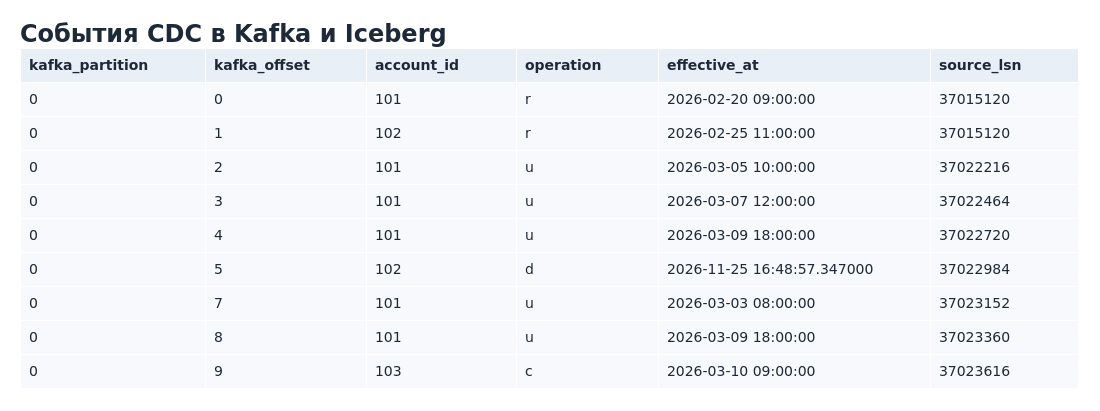
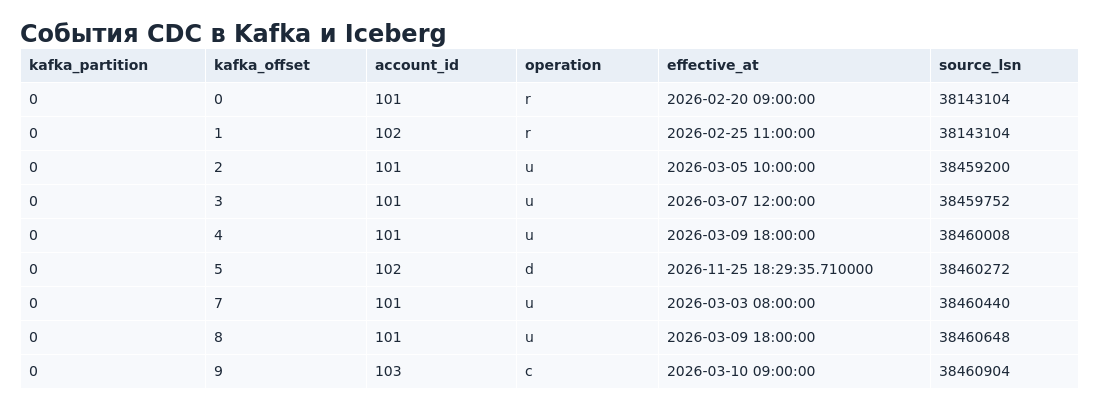
Document verified Windows Docker Compose run

diff --git a/отчет.md b/отчет.md
@@ -29,30 +29,20 @@
 
 ## 4. Docker — что поднялось (честно)
 
-| Блок | Статус |
+Стенд запущен через Docker Desktop на Windows 25 ноября 2026 года. При первом скачивании образов загрузка обрывалась с `unexpected EOF`. После повторной загрузки образы скачались, контейнеры запустились, а демонстрация вернула все семь результатов SQL.
+
+| Блок | Статус в Windows |
 |---|---|
-| Docker Compose | Конфигурация прошла `docker compose config -q`. Запуск контейнеров заблокирован на обращении к сокету Docker Engine. |
-| PostgreSQL 17.12, Kafka 3.9.1 | Запущены отдельными процессами на Linux в проверочном прогоне. |
-| Kafka Connect / Debezium 3.2.1.Final | Задача коннектора перешла в RUNNING и сформировала события снимка и WAL в Kafka. |
-| Lakekeeper 0.15.0, Trino 476 | Запущены отдельными процессами. Lakekeeper создал warehouse, Trino создал две таблицы Iceberg. |
-| Silo | Включён в Compose. Запуск бинарника Silo в проверочной среде завершился ошибкой доступа к netlink при определении адресов хоста. Для интеграционной проверки использован реальный S3-совместимый RustFS 1.0.6. |
-| Python-потребитель | Запущен отдельным процессом. Сохранил CDC и материализовал SCD Type 2. В Compose описан сервисом `worker`. |
-| DBeaver | Клиент для ручной проверки запросов на Windows. Автоматическая проверка отправила тот же SQL в Trino через Python-клиент. |
+| PostgreSQL, Kafka, Silo, Lakekeeper, Trino | Работали. В `docker ps` указан статус `Up (healthy)`. |
+| Kafka Connect / Debezium, Python-потребитель | Работали. События снимка и WAL дошли до Trino и материализовались в Iceberg. |
+| `migrate`, `setup` | Обе разовые задачи завершились с `Exited (0)` по выводу `docker compose ps -a`. |
+| `demo` | Вернул результаты `Q1`–`Q7`, включая две проверки целостности с нулём строк. |
 
-Фактический вывод проверки Docker, сокращён до значимых строк. Полный вывод сохранён в [docker.txt](screenshots/docker.txt).
+![Контейнеры проекта в Docker Desktop](screenshots/01-docker.png)
 
-![Таблица результатов проверки Docker Compose и docker ps](screenshots/01-docker.png)
+Полные результаты сохранены в [docker ps](screenshots/windows-docker-ps.txt), [docker compose ps -a](screenshots/windows-compose-ps.txt) и [выводе демонстрации](screenshots/windows-demo.txt). Текстовые файлы приведены к UTF-8. В выводе Windows PowerShell 5.1 пометка `NativeCommandError` относится к сообщениям Compose о запуске зависимостей. После этих сообщений в том же файле идут результаты всех семи запросов.
 
-```text
-$ docker compose config -q
-OK (exit 0)
-
-$ docker compose up -d --build
-... dial unix /var/run/docker.sock: socket: operation not permitted
-
-$ docker ps
-... dial unix /var/run/docker.sock: socket: operation not permitted
-```
+Ранее конвейер проверялся отдельными процессами на Linux с хранилищем RustFS. В той среде запуск Compose остановился из-за ограничений доступа к Docker Engine. [Вывод предварительной проверки](screenshots/docker.txt).
 
 ### Воспроизведение на Windows
 
@@ -130,12 +120,12 @@ WHERE account_id = 101
 
 ### Фактические результаты
 
-Запросы выполнены в Trino на данных, которые Debezium получил из PostgreSQL через WAL. Ниже приведены таблицы, отрисованные из [фактического вывода Trino](screenshots/trino.txt).
+Запросы выполнены в Trino в Docker Desktop на Windows. Таблицы ниже отрисованы из [фактического вывода SQL](screenshots/windows-trino.txt).
 
 | Проверка | Получено |
 |---|---|
-| Журнал CDC | 9 событий. Два `r`, пять `u`, одно `d` и одно `c`. Пустое сообщение на offset 6 относится к удалению на offset 5. |
-| История SCD Type 2 | 7 версий. Для счёта 101 пять версий и одна текущая. Для удалённого счёта 102 одна закрытая версия. Для нового счёта 103 одна текущая версия. |
+| Журнал CDC | 9 событий. Два `r`, пять `u`, одно `d` и одно `c`. Позиция 6 пропущена в таблице, потому что после удаления на offset 5 Debezium отправляет пустое сообщение. |
+| История SCD Type 2 | 7 версий. Для счёта 101 пять версий и одна текущая. У счёта 102 одна закрытая версия с окончанием 25 ноября в 18:29:35.710 UTC, по времени события удаления в тестовом стенде. Для нового счёта 103 одна текущая версия. |
 | Владелец счёта 101 на 1 марта 2026, UTC | Анна Романова, Казань, `ACTIVE`. |
 | Счёт 101 перед отменой | Павел Соколов, `SUSPENDED`, окончание интервала 9 марта в 18:00 UTC. |
 | Позднее изменение | На offset 7 пришло состояние «Анна Романова, Самара» с датой 3 марта. В витрине оно действует с 3 марта, 08:00 до 5 марта, 10:00 UTC. |
@@ -145,11 +135,11 @@ WHERE account_id = 101
 
 ![Таблица истории SCD Type 2](screenshots/03-scd2.png)
 
-При повторном чтении Kafka обработаны offsets от 0 до 9. Количество строк осталось 9 и 7, контрольные суммы содержимого обеих таблиц совпали до и после повторной обработки. Группа основного потребителя сохранила следующий offset 10.
+В предварительном прогоне на Linux с RustFS повторно обработаны offsets Kafka от 0 до 9. Количество строк осталось 9 и 7, контрольные суммы содержимого обеих таблиц совпали до и после повторной обработки. Группа основного потребителя сохранила следующий offset 10.
 
-![Результаты проверок качества и повторного чтения](screenshots/04-replay.png)
+![Результаты предварительной проверки и повторного чтения на Linux](screenshots/04-replay.png)
 
-Подробности сохранены в [выводе потребителя](screenshots/worker.txt), [логе повторного чтения](screenshots/replay.txt) и [проверке компонентов и файлов Iceberg](screenshots/evidence.txt). Таблица системных метаданных Iceberg `$files` вернула пути к Parquet в бакете `p2-history`.
+Подробности предварительного прогона сохранены в [выводе потребителя](screenshots/worker.txt), [логе повторного чтения](screenshots/replay.txt) и [проверке компонентов и файлов Iceberg](screenshots/evidence.txt). Таблица системных метаданных Iceberg `$files` вернула пути к Parquet в бакете `p2-history`.
 
 
 ## 6. Выводы
